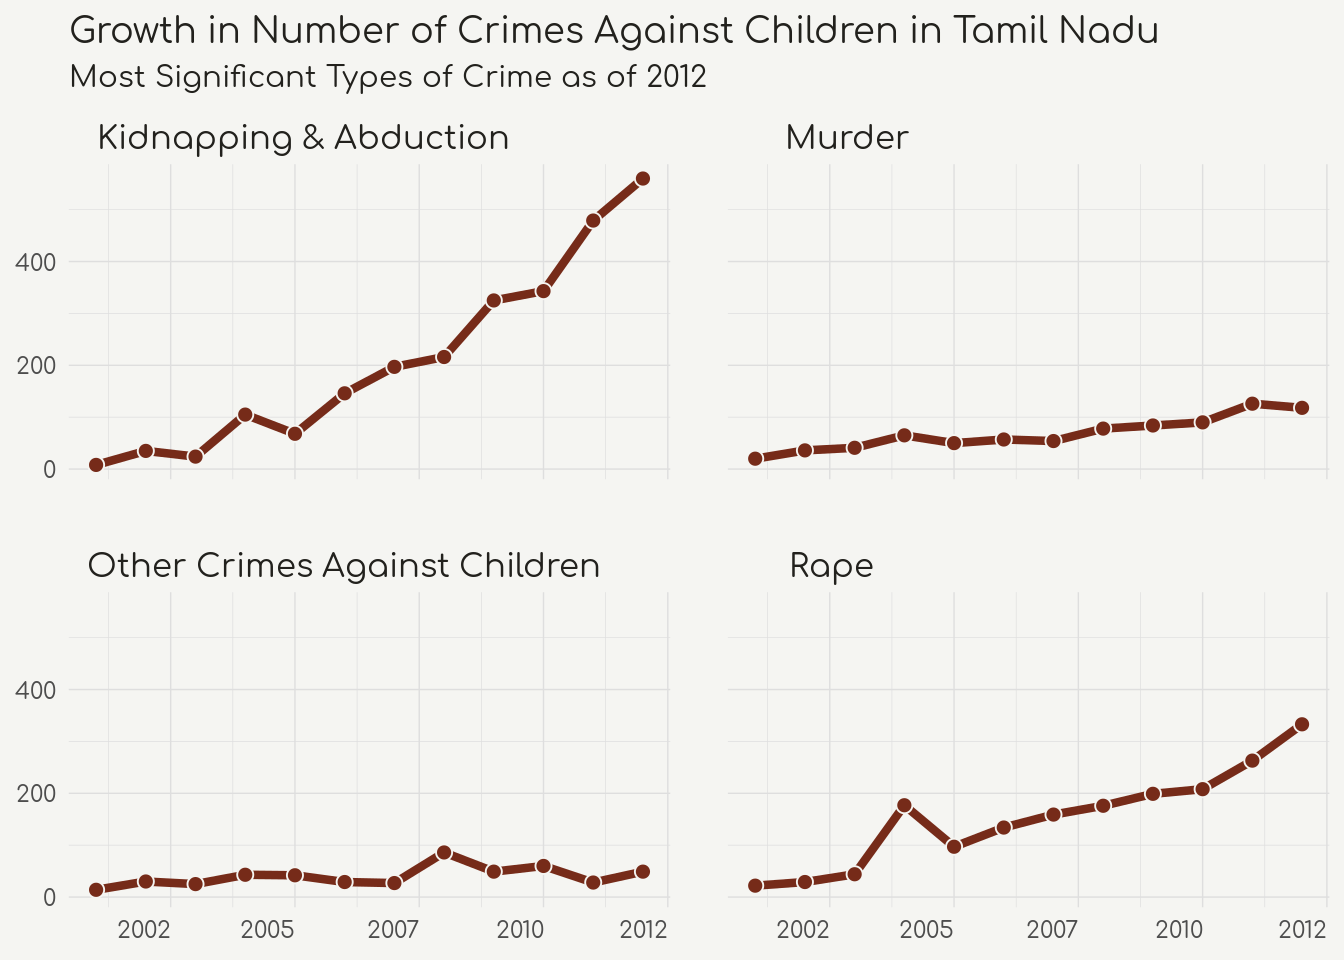
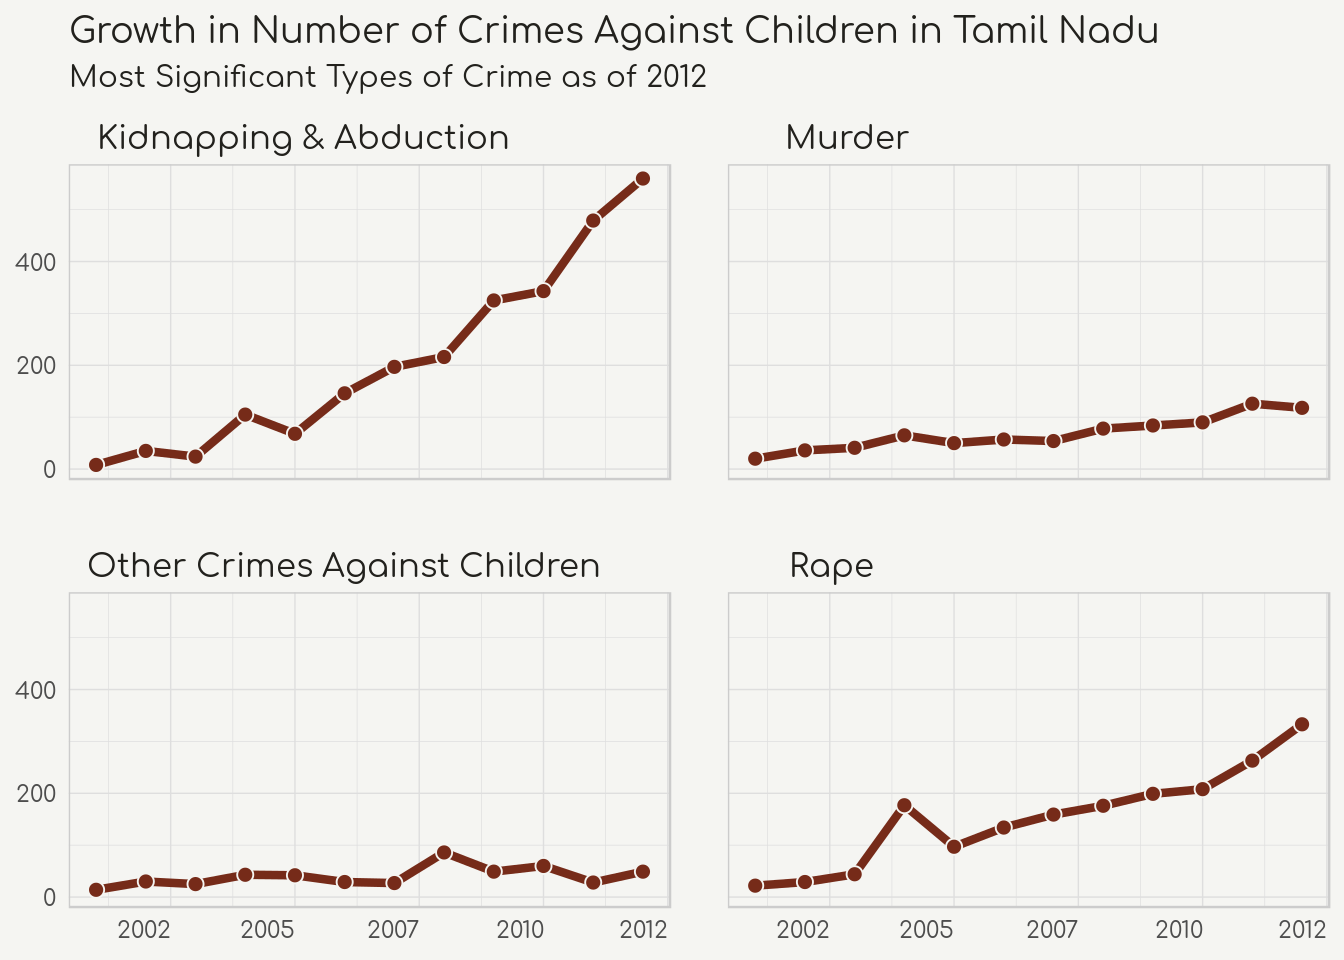
minor edits

Changed region(s): [[0.4688, 0.4688, 0.5, 0.5]]

diff --git a/content/blog/2019-01-31-world-tempus-advent-calendar-2018.html b/content/blog/2019-01-31-world-tempus-advent-calendar-2018.html
@@ -16,6 +16,7 @@ featuredalt: ''
 featuredpath: 'img/main'
 linktitle: ''
 type: post
+code_download: true
 ---
 
 <script src="/rmarkdown-libs/htmlwidgets/htmlwidgets.js"></script>
@@ -36,7 +37,8 @@ type: post
 <pre class="r"><code>library(tidyverse)
 library(lubridate)
 library(rvest)
-library(networkD3)</code></pre>
+library(networkD3)
+library(ghibli)</code></pre>
 </div>
 <div id="scraping-the-web" class="section level2">
 <h2>Scraping the web</h2>
@@ -364,7 +366,7 @@ France
   geom_histogram(stat=&quot;count&quot;) +
   coord_flip() +
   labs(x=&quot;&quot;,y=&quot;&quot;) +
-  scale_fill_manual(values = ghibli::ghibli_palette(18, name = &quot;MononokeMedium&quot;, type = &quot;continuous&quot;)) +
+  scale_fill_manual(values = ghibli_palette(18, name = &quot;MononokeMedium&quot;, type = &quot;continuous&quot;)) +
   theme(axis.text = element_text(size = 14),
         legend.position = c(0.75,0.3),
         legend.text = element_text(size=6)) +

diff --git a/content/blog/2018-02-22-crime-against-children-in-india.html b/content/blog/2018-02-22-crime-against-children-in-india.html
@@ -182,7 +182,8 @@ df %&gt;%
        subtitle = &quot;Most Significant Types of Crime as of 2012&quot;) +
   scale_x_continuous(labels = function(x) as.integer(x)) +
   theme(axis.text.x = element_text(hjust=1),
-        panel.spacing = unit(1.5, &quot;lines&quot;))</code></pre>
+        panel.spacing = unit(1.5, &quot;lines&quot;),
+        panel.border = element_rect(color = &quot;grey80&quot;, fill = NA))</code></pre>
 <p><img src="/blog/2018-02-22-crime-against-children-in-india_files/figure-html/tamil_nadu_crimes_charts-1.png" width="672" /></p>
 <p>Kidnapping and rape appear to have the most alarming trajectories. I’m curious what average annual growth looks like.</p>
 <pre class="r"><code>df %&gt;%
